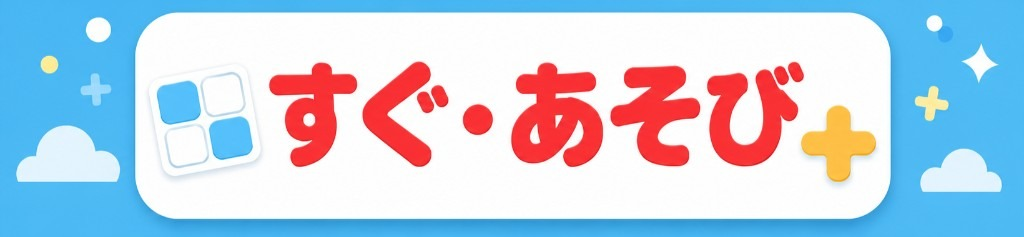
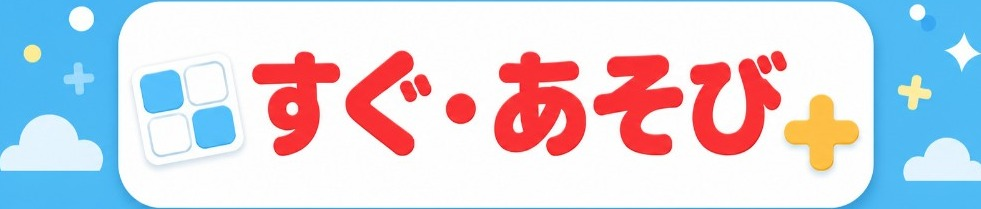
バナーの白い部分を、下のカードと同じ横幅に揃える。

diff --git a/index.html b/index.html
@@ -43,8 +43,8 @@
         class="hero-banner"
         src="images/banner.png"
         alt="すぐ・あそび"
-        width="1024"
-        height="237"
+        width="981"
+        height="209"
       />
       <div id="app-list" class="app-list"></div>
       <p class="note">

diff --git a/css/common.css b/css/common.css
@@ -62,8 +62,11 @@ button {
   display: block;
   width: 100%;
   height: auto;
-  margin: 0 0 20px;
+  margin: 0 0 12px;
   border-radius: 16px;
+  border: 2px solid var(--line);
+  box-shadow: var(--shadow);
+  background: var(--card);
 }
 
 .visually-hidden {
